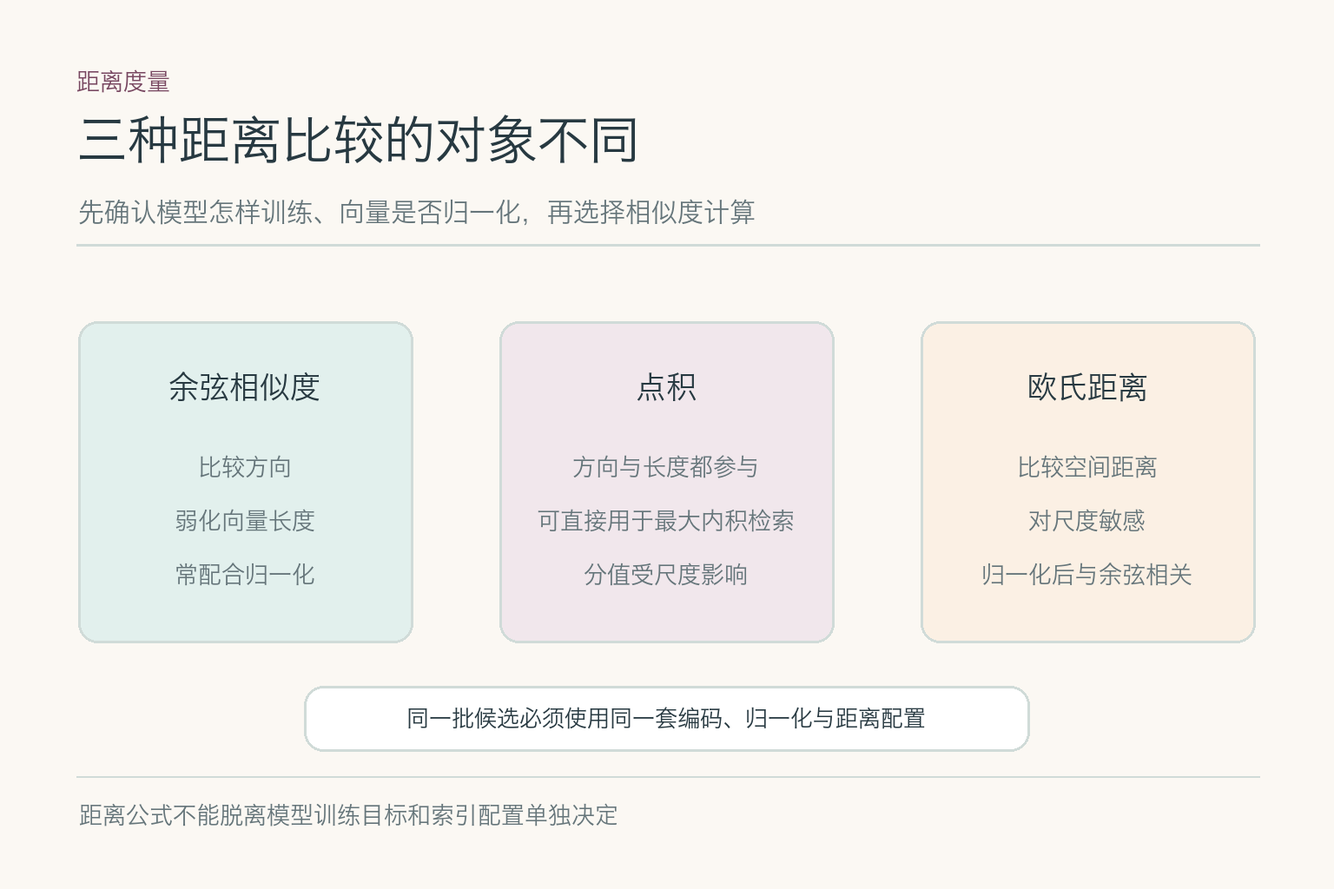
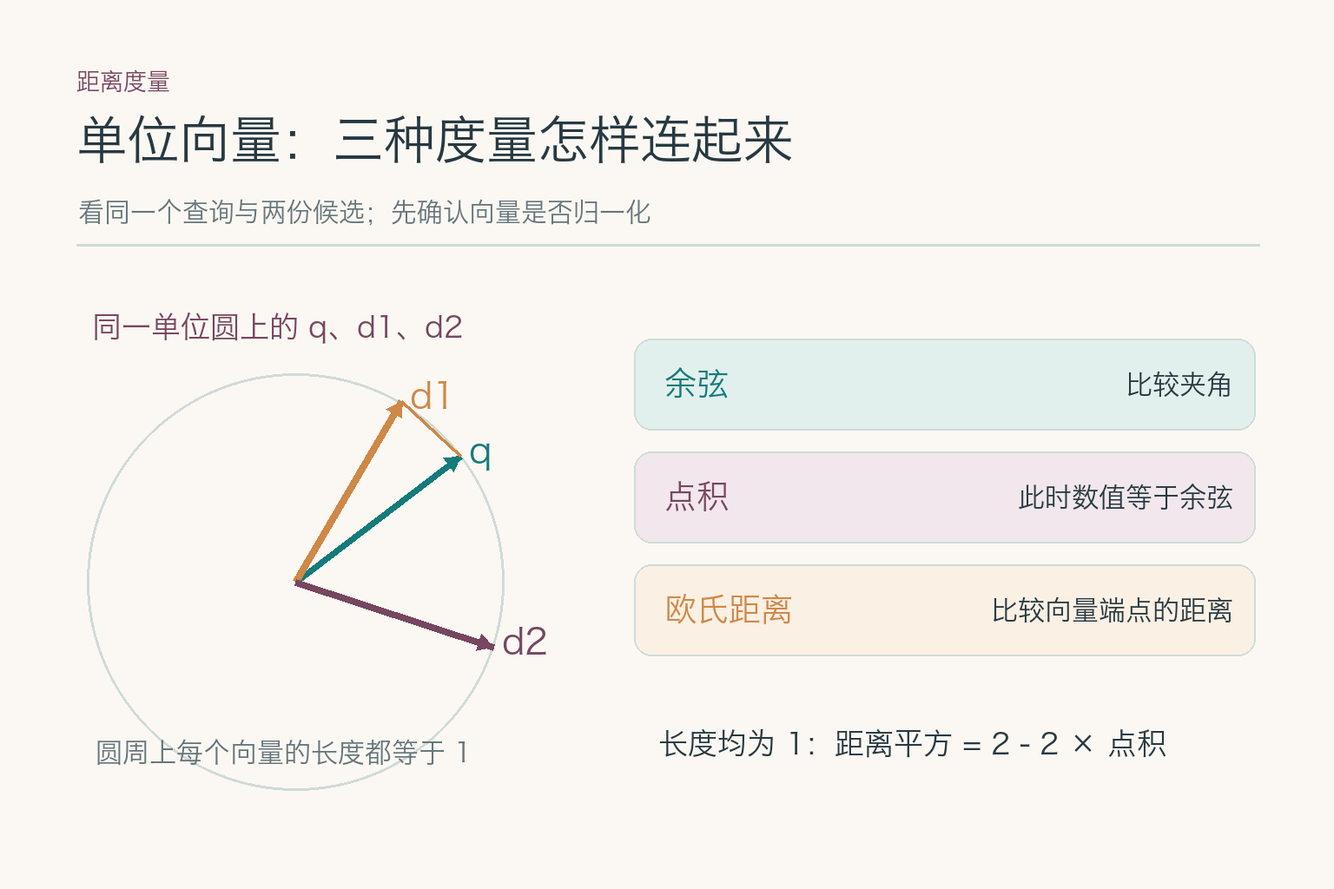
Refine embedding articles and diagrams

diff --git a/scripts/render-foundation-figure-fixes.py b/scripts/render-foundation-figure-fixes.py
@@ -6,6 +6,7 @@ future edit cannot silently reintroduce a misleading model relationship.
 
 from math import atan2, cos, sin
 from pathlib import Path
+import sys
 
 from PIL import Image, ImageDraw, ImageFont
 
@@ -65,8 +66,9 @@ def base(title, subtitle, category, footnote):
     label(d, (88, 131), title, 59)
     label(d, (90, 228), subtitle, 30, MUTED)
     d.line((88, 282, 1450, 282), fill=OUTLINE, width=3)
-    d.line((88, 894, 1450, 894), fill=OUTLINE, width=2)
-    label(d, (91, 925), footnote, 27, MUTED)
+    if footnote:
+        d.line((88, 894, 1450, 894), fill=OUTLINE, width=2)
+        label(d, (91, 925), footnote, 27, MUTED)
     return im, d
 
 
@@ -82,53 +84,57 @@ def save(im, relative):
 
 def embedding_chunking():
     im, d = base(
-        "切好的片段怎样进入向量索引",
-        "先保留条款条件，再编码；权限在查询时还要重新判断",
-        "建索引与查询",
-        "一个片段既要有向量，也要能回到原文和适用条件",
+        "版本条件也得跟着条款入库",
+        "只存“上限 500 元”，会丢掉地区、职级和生效日期",
+        "建索引",
+        "",
     )
-    steps = [
-        ((89, 384, 338, 534), "制度原文", "#FFFFFF"),
-        ((414, 384, 687, 534), "按条款切片", PLUM_PALE),
-        ((765, 384, 1026, 534), "嵌入模型", TEAL_PALE),
-        ((1100, 384, 1444, 534), "向量 + 片段 ID", ORANGE_PALE),
-    ]
-    for bounds, name, fill in steps:
-        box(d, bounds, name, fill)
-    for a, b in [((348, 459), (403, 459)), ((697, 459), (754, 459)),
-                 ((1036, 459), (1089, 459))]:
-        arrow(d, a, b, ORANGE)
-    box(d, (215, 674, 690, 795), "随片段保存：来源、版本、适用范围", "#FFFFFF", 27)
-    box(d, (840, 674, 1320, 795), "查询时：按身份与日期过滤", "#FFFFFF", 28)
-    arrow(d, (702, 735), (828, 735), TEAL)
+    d.rounded_rectangle((90, 365, 475, 670), radius=22, fill="#FFFFFF", outline=OUTLINE, width=3)
+    label(d, (122, 423), "制度原文", 37, PLUM)
+    label(d, (122, 485), "北京 · A 职级", 38)
+    label(d, (122, 545), "9 月 1 日起", 38)
+    label(d, (122, 605), "上限 500 元", 38)
+    d.rounded_rectangle((570, 400, 955, 635), radius=22, fill=TEAL_PALE, outline=OUTLINE, width=3)
+    label(d, (602, 468), "按条款切片", 39, TEAL)
+    label(d, (602, 536), "四项条件保留完整", 34)
+    d.rounded_rectangle((1050, 400, 1445, 635), radius=22, fill=ORANGE_PALE, outline=OUTLINE, width=3)
+    label(d, (1082, 468), "嵌入模型", 39, ORANGE)
+    label(d, (1082, 536), "向量 + 片段 ID", 34)
+    arrow(d, (486, 518), (559, 518), ORANGE)
+    arrow(d, (966, 518), (1039, 518), ORANGE)
+    d.rounded_rectangle((310, 730, 1230, 845), radius=22, fill="#FFFFFF", outline=OUTLINE, width=3)
+    label(d, (345, 790), "片段 ID 还能找到原文、版本和适用范围", 37, INK, "lm")
+    arrow(d, (1200, 640), (1200, 716), TEAL)
     save(im, "submodules/03-embedding/assets/embedding-chunking.png")
 
 
 def embedding_evaluation():
     im, d = base(
-        "召回结果怎样算对",
-        "模型先给候选；人工标注的相关资料只用于对照评测",
-        "召回评测",
-        "Recall@K：前 K 个结果覆盖了多少应找出的相关资料",
+        "旧版排第一，召回率仍可能是满分",
+        "同一道题：前三名里有新版，但旧版在它前面",
+        "案例评测",
+        "",
     )
-    for bounds, name, fill in [
-        ((90, 383, 336, 505), "测试问题", "#FFFFFF"),
-        ((430, 383, 728, 505), "嵌入检索", TEAL_PALE),
-        ((822, 383, 1100, 505), "前 K 个结果", "#FFFFFF"),
-        ((430, 643, 1100, 765), "人工标注的相关资料（标准答案）", PLUM_PALE),
-        ((1190, 500, 1445, 658), "比较集合\nRecall@K", ORANGE_PALE),
-    ]:
-        if "\n" in name:
-            d.rounded_rectangle(bounds, radius=22, fill=fill, outline=OUTLINE, width=3)
-            x0, y0, x1, y1 = bounds
-            label(d, ((x0+x1)//2, y0+54), "比较集合", 28, INK, "mm")
-            label(d, ((x0+x1)//2, y0+110), "Recall@K", 30, TEAL, "mm")
-        else:
-            box(d, bounds, name, fill, 29)
-    for a, b in [((347, 444), (419, 444)), ((739, 444), (811, 444)),
-                 ((1111, 444), (1179, 548)), ((1111, 704), (1179, 614))]:
-        arrow(d, a, b, ORANGE)
-    label(d, (484, 790), "标注资料不会“生成”召回结果", 28, PLUM)
+    d.rounded_rectangle((90, 340, 735, 475), radius=22, fill="#FFFFFF", outline=OUTLINE, width=3)
+    label(d, (122, 386), "测试问题", 31, PLUM)
+    label(d, (122, 438), "北京 · A 职级 · 2026 年 9 月 15 日", 31)
+    label(d, (90, 535), "检索前 3 名", 38, INK)
+    ranked = [
+        (570, "1  旧版 450 元", "日期不适用", PLUM_PALE, PLUM),
+        (690, "2  新版 500 元", "本题正例", TEAL_PALE, TEAL),
+        (810, "3  异地住宿条款", "地区不适用", ORANGE_PALE, ORANGE),
+    ]
+    for y, result, status, fill, color in ranked:
+        d.rounded_rectangle((90, y, 735, y+94), radius=18, fill=fill, outline=OUTLINE, width=2)
+        label(d, (120, y+47), result, 38, INK, "lm")
+        label(d, (705, y+47), status, 28, color, "rm")
+    d.rounded_rectangle((850, 370, 1445, 545), radius=24, fill="#FFFFFF", outline=OUTLINE, width=3)
+    label(d, (885, 420), "人工标注的正例", 31, PLUM)
+    label(d, (885, 492), "新版 500 元", 46, TEAL)
+    d.rounded_rectangle((850, 615, 1445, 850), radius=24, fill=ORANGE_PALE, outline=OUTLINE, width=3)
+    label(d, (885, 682), "Recall@3 = 1 / 1", 46, TEAL)
+    label(d, (885, 746), "正确条款进了前三名", 31, INK)
+    label(d, (885, 805), "但第一名仍是旧版", 31, PLUM)
     save(im, "submodules/03-embedding/assets/embedding-evaluation.png")
 
 
@@ -311,23 +317,32 @@ def multimodal_field_trace():
 
 def embedding_metric_comparison():
     im, d = base(
-        "三种距离比较的对象不同",
-        "先确认模型怎样训练、向量是否归一化，再选择相似度计算",
+        "单位向量：三种度量怎样连起来",
+        "看同一个查询与两份候选；先确认向量是否归一化",
         "距离度量",
-        "距离公式不能脱离模型训练目标和索引配置单独决定",
+        "",
     )
-    cards = [
-        ((90, 370, 475, 740), "余弦相似度", "比较方向\n弱化向量长度\n常配合归一化", TEAL_PALE),
-        ((575, 370, 960, 740), "点积", "方向与长度都参与\n可直接用于最大内积检索\n分值受尺度影响", PLUM_PALE),
-        ((1060, 370, 1445, 740), "欧氏距离", "比较空间距离\n对尺度敏感\n归一化后与余弦相关", ORANGE_PALE),
+    center = (340, 670)
+    radius = 240
+    d.ellipse((center[0]-radius, center[1]-radius, center[0]+radius, center[1]+radius),
+              outline=OUTLINE, width=3)
+    label(d, (106, 359), "同一单位圆上的 q、d1、d2", 34, PLUM)
+    endpoints = [((530, 525), "q", TEAL), ((462, 462), "d1", ORANGE), ((568, 745), "d2", PLUM)]
+    for endpoint, name, color in endpoints:
+        arrow(d, center, endpoint, color, 8)
+        label(d, (endpoint[0]+10, endpoint[1]-28), name, 41, color)
+    d.line((462, 462, 530, 525), fill=ORANGE, width=4)
+    label(d, (110, 850), "圆周上每个向量的长度都等于 1", 31, MUTED)
+    facts = [
+        (390, "余弦", "比较夹角", TEAL_PALE, TEAL),
+        (520, "点积", "此时数值等于余弦", PLUM_PALE, PLUM),
+        (650, "欧氏距离", "比较向量端点的距离", ORANGE_PALE, ORANGE),
     ]
-    for bounds, head, detail, fill in cards:
-        d.rounded_rectangle(bounds, radius=22, fill=fill, outline=OUTLINE, width=3)
-        x0, y0, x1, y1 = bounds
-        label(d, ((x0+x1)//2, y0+76), head, 35, INK, "mm")
-        for idx, line in enumerate(detail.split("\n")):
-            label(d, ((x0+x1)//2, y0+168+idx*62), line, 27, MUTED, "mm")
-    box(d, (350, 790, 1185, 865), "同一批候选必须使用同一套编码、归一化与距离配置", "#FFFFFF", 26)
+    for y, term, meaning, fill, color in facts:
+        d.rounded_rectangle((730, y, 1445, y+105), radius=20, fill=fill, outline=OUTLINE, width=2)
+        label(d, (765, y+52), term, 37, color, "lm")
+        label(d, (1420, y+52), meaning, 31, INK, "rm")
+    label(d, (758, 839), "长度均为 1：距离平方 = 2 - 2 × 点积", 34, INK)
     save(im, "submodules/03-embedding/assets/embedding-metric-comparison.png")
 
 
@@ -590,6 +605,7 @@ def multimodal_evaluation():
 def main():
     # LLM assets and the mobile-first multimodal assets are curated separately.
     # Keep old renderers for history; do not overwrite the 1000×1450 mobile figures.
+    selected = set(sys.argv[1:])
     for renderer in (
         embedding_chunking,
         embedding_evaluation,
@@ -601,7 +617,8 @@ def main():
         adaptation_distillation,
         adaptation_lora,
     ):
-        renderer()
+        if not selected or renderer.__name__ in selected:
+            renderer()
 
 
 if __name__ == "__main__":

diff --git a/content/wechat/01-foundation-models-and-inference/submodules/03-embedding/beginner-main.md b/content/wechat/01-foundation-models-and-inference/submodules/03-embedding/beginner-main.md
@@ -12,21 +12,21 @@ topic: "foundation"
 content_level: "submodule"
 submodule: "embedding"
 series_order: 3
-version: "0.3.0"
-stage: "围绕住宿条款案例重写表示、训练、检索与验证"
-git_state: "基于 fd09b1b（main；修改前工作区干净）"
-modified_at: "2026-10-09 16:03 CST"
+version: "0.4.0"
+stage: "精修查询条件、召回评测与配图衔接"
+git_state: "基于 ea8f4f5（main；修改前工作区干净）"
+modified_at: "2026-10-09 18:40 CST"
 ---
 
 # 大话向量嵌入：同一个意思为何找不到
 
 员工问：“北京出差住酒店，最多能报多少？”补充信息里写着：他是 A 职级，住宿日期为 2026 年 9 月 15 日。制度库中有一份《差旅住宿费限额》：旧版写 450 元，新版从 9 月 1 日起写 500 元。员工的票面金额是 480 元，但眼下只需要先找出可核对的制度条款，不作报销审批。**这些日期和金额是教学设定，不代表真实公司的制度。**
 
-按字面找，“住酒店最多报多少”与“差旅住宿费限额”对不上；按意思找，450 元的旧版又可能排得很靠前。向量嵌入正好处在这道缝里：它让不同说法有机会相遇，同时也会把主题相似、条件不同的资料带进候选。我们沿着这次查询，看它算出了什么，哪里会丢信息，怎样知道错误发生在哪一步。
+按字面找，“住酒店最多报多少”与“差旅住宿费限额”对不上；按意思找，450 元的旧版又可能排得很靠前。向量嵌入能帮助系统找到用词不同的条款，但找到“住宿费”不等于找到了 9 月 15 日适用的版本。我们沿着这次查询，看它怎样计算、会漏掉哪些条件，以及怎样定位错误。
 
 ## 一、从一句问话到一串数字，模型保留了什么
 
-嵌入模型（`embedding model`）接收文字，输出固定长度的向量。可以把向量想成一张由许多数字组成的“位置记录”，方便计算两段文字在模型空间里有多近；它不是把原句逐字压进一排格子。输入先按该模型的规则拆成 `token`（模型处理文字的片段），再经过编码网络，汇总成整个输入的表示。不同模型的汇总办法并不相同，不能把某一种实现当成通则。
+嵌入模型（`embedding model`）接收文字，输出固定长度的向量，也就是一组用于计算的数字。可以把它想成模型给这段文字标出的坐标：两段话能据此比较远近，却不能从某个数字直接还原原句。输入先按模型的规则拆成 `token`（模型处理文字的片段），经过编码网络后，再汇总成整段文字的表示。不同模型的汇总办法并不相同。
 
 ![向量空间中的语义簇](./assets/embedding-space.png)
 
@@ -38,7 +38,9 @@ modified_at: "2026-10-09 16:03 CST"
 
 训练时可以给模型一组相关的问句与资料，再给不相关的资料。模型调整参数，让相关配对得分高，不相关配对得分低。以这道题为例，“酒店最多报多少”与“住宿费限额”是一组应靠近的表达；“打印机维修流程”很容易排开。原始研究中，Sentence-BERT 用成对或三元组训练，让句子向量适合直接比较；E5 等检索模型进一步使用大规模文本对和对比训练。它们说明的是训练思路，不保证已经学会这家公司的新旧制度。
 
-真正考验模型的是旧版 450 元。它和新版 500 元的标题、城市、职级可能完全相同，只差生效时间与金额。若训练样本只教模型分开“住宿”和“打印机”，就算相似度计算毫无差错，它也可能把旧版排在前面。这样的相似但不适用的资料叫难负样本。把旧版、异地、不同职级的条款加入训练或评测，能看到模型是否注意到细小条件；但标注前必须确认它们确实不适用，不能把另一日期下的正确条款误标成错误。
+真正考验模型的是旧版 450 元。它和新版 500 元的标题、城市、职级可能完全相同，只差生效时间与金额。这里得先检查查询输入：如果编码器只收到“住酒店最多报多少”，9 月 15 日仍留在业务表单里，它根本不知道该排除旧版。系统可以把已确认的住宿日期写入查询，或在检索时按生效区间过滤；不能指望模型从没见过的字段里猜答案。
+
+条件已经送到检索环节，旧版仍排在前面，才需要继续检查训练。若样本只教模型分开“住宿”和“打印机”，它可能忽略新旧版之间细小却关键的差异。当前查询下相似但不适用的旧版，是一个难负样本；换成 8 月的住宿日期，旧版又可能成为正例。训练和评测前要按日期、地区、职级核对标签，不能把“旧版”永久标成错误。
 
 还有一种很普通的失败：训练集中正式标题很多，员工的口语问法很少。模型懂“差旅住宿费”，未必懂“住酒店最多报多少”。这时先收集真实问法和对应条款，再比较模型，而不是看到一次没搜到就断言“向量不懂中文”。
 
@@ -46,9 +48,9 @@ modified_at: "2026-10-09 16:03 CST"
 
 ![双塔编码的原理](./assets/embedding-principle.png)
 
-*依据 [Sentence-BERT 原论文 Figure 2](https://arxiv.org/html/1908.10084) 的推理比较结构改绘；图中“查询编码器”和“文档编码器”是两条处理路径，不表示所有模型都使用两套不同参数。*
+*依据 [Sentence-BERT 原论文 Figure 2](https://arxiv.org/html/1908.10084) 的推理比较结构改绘。两条路径共用编码器参数；其他双塔模型未必如此。*
 
-常见的双塔检索把问句与制度片段分别编码，得到查询向量 `q` 和文档向量 `d`，再比较两者。Sentence-BERT 的孪生结构共享编码器参数；DPR 则为问题和段落使用分别训练的编码器。两者实现不同，却都允许先计算并保存文档向量。员工发问时，只需为新问句算一次向量，再从已存的文档向量里找候选。
+常见的双塔检索把问句与制度片段分别编码，得到查询向量 `q` 和文档向量 `d`，再比较两者。图按 Sentence-BERT 的孪生结构绘制：两条路径共用编码器参数，并非两套各自训练的模型。DPR 则为问题和段落使用分别训练的编码器。实现不同，但都可以提前计算并保存文档向量；员工发问时，再计算查询向量并寻找候选。
 
 ![查询与制度片段进入向量检索](./assets/embedding-retrieval.png)
 
@@ -66,7 +68,7 @@ modified_at: "2026-10-09 16:03 CST"
 
 ![制度条款怎样进入向量索引](./assets/embedding-chunking.png)
 
-*片段与原文、版本和适用条件保持关联。图片展示一种建索引方法，不表示每家公司都要采用同样的切分长度。*
+*示意条款保留北京、A 职级、9 月 1 日起和 500 元；片段 ID 仍能找到原文、版本与适用范围。*
 
 假如把整本差旅制度编码成一个向量，住宿、交通、餐补会混在一起；模型输入还可能超过长度上限而被截断。另一个极端是只存“上限 500 元”：数字留下了，北京、A 职级和生效日期却不见了。此时模型即使找回这四个字，也没法凭片段解释员工为什么适用。
 
@@ -96,13 +98,13 @@ modified_at: "2026-10-09 16:03 CST"
 
 ![召回结果与人工标注资料的对照评测](./assets/embedding-evaluation.png)
 
-*人工标注的相关条款是独立答案，不能由当前检索结果反过来充当标准答案。*
+*图中排名是教学示意：旧版排第一、新版排第二，人工标注只把当前日期适用的新版列为正例。*
 
-先为一组问题标出可接受的制度片段。这里至少要有口语问法、正式标题问法、旧版与新版、不同职级、精确编号、缺少日期几类。对 9 月 15 日这道题，若新版应当进入前五个候选，就检查 `Recall@5`；旧版也可能被召回，另记“把不适用条款排在前面”的次数。**召回率告诉我们正确材料有没有进门，不告诉我们最终回答是否引用了正确版本。**
+先为一组问题标出可接受的制度片段。这里至少要有口语问法、正式标题问法、旧版与新版、不同职级、精确编号、缺少日期几类。图里只有新版一份正例，它排在前三名里，所以 `Recall@3 = 1/1`。但旧版排在它前面；只看召回率会误以为没有问题，还得另看正确条款的名次和错误旧版的前排比例。**召回率只回答“该找的材料进候选了吗”，不回答“排第一的是不是有效版本”。**
 
 有多份资料共同构成答案时，不能把其中一份进了前五就算全部找齐；反过来，日期缺失的题也不能硬标一份唯一正解。先写清每道题的相关性标准，再计算指标，团队之间的分数才有可比性。MTEB 等公开基准有助于初筛模型，但企业制度的版本和职级难题仍须自己标注。
 
-评测时再把失败拆开：新版未入库；片段缺失生效日期；编码器把口语问法拉远；精确搜索有结果但近似索引漏了；正确候选在场却被后续环节选错。每一种都有不同修法。员工最终拿到的应是能追溯到原文与版本的候选条款；是否可报销，还要结合票据、身份与业务规则判断。向量模型的工作到这里就已经很有价值，不必让它替整套财务流程签字。
+评测时再把失败拆开：新版未入库；片段缺失生效日期；编码器把口语问法拉远；精确搜索有结果但近似索引漏了；正确候选在场却被后续环节选错。每一种都有不同修法。员工最终拿到的应是能追溯到原文与版本的候选条款；是否可报销，还要结合票据、身份与业务规则另行判断。
 
 ## 参考资料
 

diff --git a/content/wechat/01-foundation-models-and-inference/submodules/03-embedding/prompts.md b/content/wechat/01-foundation-models-and-inference/submodules/03-embedding/prompts.md
@@ -1,20 +1,20 @@
 # 向量嵌入子模块配图提示词
 
-版本：0.4.0；修订时间：2026-10-09 16:03 CST；依据提交：`fd09b1b`（`main`；修订前工作区干净）。
+版本：0.5.0；修订时间：2026-10-09 18:40 CST；依据提交：`ea8f4f5`（`main`；修订前工作区干净）。
 
-正文配图统一为 1536×1024 PNG；公众号封面图统一为 900×383 PNG。暖白背景，青绿、蓝色和橙色点缀，中文清晰，无水印、无 Logo。封面图使用内置图像生成工具；结构图 `embedding-chunking.png`、`embedding-evaluation.png` 与 `embedding-metric-comparison.png` 由 `scripts/render-foundation-figure-fixes.py` 确定性绘制。
+正文配图统一为 1536×1024 PNG；公众号封面图统一为 900×383 PNG。暖白背景，青绿、蓝色和橙色点缀，中文清晰，无水印、无 Logo。主封面是已有生成图；副封面和部分原理、诊断图保留可维护的 SVG／绘图脚本，成片仍为 PNG。`embedding-principle.png` 由 `scripts/render-principle-diagrams.mjs` 绘制；`embedding-chunking.png`、`embedding-evaluation.png` 与 `embedding-metric-comparison.png` 由 `scripts/render-foundation-figure-fixes.py` 确定性绘制。论文出处与教学示意边界放在图注，不放图底白条。
 
-1. `embedding-cover-main-wechat.png`：主文封面图。标题“大话向量嵌入”“同一个意思为何找不到”；将口语提问和正式制度标题画成向量空间中的两点，并保留“年份、地区、职级”条件卡。
+1. `embedding-cover-main-wechat.png`：主文封面图。标题“大话向量嵌入”“同一个意思为何找不到”；将“酒店最多报多少”和“差旅住宿费限额”放在向量空间两侧，说明不同说法需要语义连接。日期、地区、职级的适用性留到正文讲解，不在封面伪装成相似度已解决的问题。
 2. `embedding-cover-interview-wechat.png`：面试副文封面图。中央放大镜里只保留旧版与现行版两张条款卡、450 与 500 两个示意金额，以及叉号与勾号；不重复完整文章标题。关键内容落在中央正方形缩略图安全区。源图：`scripts/figures/embedding/embedding-cover-interview-wechat.svg`。
 3. `embedding-space.png`：二维语义地图，标签“差旅报销”“住宿标准”“产品故障”“账号登录”，相近主题成簇。
 4. `embedding-retrieval.png`：双塔检索，标签“查询向量”“文档向量”“近邻搜索”“候选资料”。
-5. `embedding-chunking.png`：制度原文按条款切片后明确经过嵌入模型，形成“向量 + 片段 ID”并建立索引；来源、版本和适用范围随片段保存，查询时再按身份、日期过滤。不能漏掉嵌入模型，也不能把权限过滤画成一次入库操作。
-6. `embedding-evaluation.png`：测试问题进入嵌入检索得前 K 个结果；人工标注的相关资料是独立标准答案，两者对照计算 Recall@K。不得画成“相关资料生成召回结果”。
-7. `embedding-metric-comparison.png`：度量对比图。分别用方向、投影与几何间距解释余弦、点积和欧氏距离，并标注“归一化后余弦与点积排序可能等价”“分数不是正确率”。
-8. `embedding-principle.png`：原理图。依据 [Sentence-BERT](https://arxiv.org/abs/1908.10084) Figure 2（推理阶段）改绘，不能错标为 Figure 1（分类训练结构）。保留查询与文档两条独立编码路径、向量 `q/d` 和相似度计算；强调文档向量可预计算，相似度不是事实证明。图注：“依据 Reimers 与 Gurevych，Figure 2 改绘。”
+5. `embedding-chunking.png`：示意制度原文完整保留“北京、A 职级、9 月 1 日起、上限 500 元”，按条款切片后经过嵌入模型，形成“向量 + 片段 ID”；片段 ID 仍能回到原文、版本和适用范围。图中不把查询过滤画成建索引时已经完成的动作。文末不加空泛总结白条。
+6. `embedding-evaluation.png`：教学示意“旧版 450 元排第 1，新版 500 元排第 2，异地条款排第 3”；按 2026 年 9 月 15 日、北京、A 职级独立标注新版为唯一正例，因此 `Recall@3 = 1/1`，但旧版仍排在前面。排名不是实测，图注须写明。图形展示召回覆盖与排序质量不同，不能把标注画成检索结果的来源。
+7. `embedding-metric-comparison.png`：在同一单位圆上绘制查询向量 `q` 和候选 `d1/d2`，画出方向与端点距离；图中只在单位向量条件下给出点积等于余弦、距离平方等于 `2 - 2 × 点积` 的关系，不把这组等价推广到未归一化向量。文字只留读图所需的短标签，无独立免责声明。
+8. `embedding-principle.png`：原理图。依据 [Sentence-BERT](https://arxiv.org/html/1908.10084) Figure 2（推理阶段）改绘，不能错标为 Figure 1（分类训练结构）。保留查询与文档两条编码路径、共享参数、向量 `q/d`、相似度计算，以及文档向量可预计算。图内不放论文出处或“相似度不是事实证明”等图底总结；出处和边界在紧邻图注及正文说明。
 
 9. `embedding-pooling.png`：面试题 1 的句向量汇总图。依据 [Sentence-BERT 第 3 节](https://arxiv.org/html/1908.10084) 说明输入位置经过编码后，可选择特殊位置或平均汇总得到固定长度表示；两条路径是备选，不画成先后两步。源图：`scripts/figures/embedding/embedding-pooling.png.svg`。
 10. `embedding-encoder-variants.png`：面试题 3 的架构比较图。依据 [Sentence-BERT](https://arxiv.org/html/1908.10084)、[DPR](https://arxiv.org/html/2004.04906) 与 [E5](https://arxiv.org/html/2212.03533) 的编码约定，分别画共享参数、独立参数、共享参数加查询／段落前缀。只比较结构，不暗示效果排名。源图：`scripts/figures/embedding/embedding-encoder-variants.png.svg`。
 11. `embedding-fragment-loss.png`：面试题 6 的输入诊断图。同一示意条款“北京、A 职级、9 月 1 日起、500 元”，并排展示截断丢金额、片段过短丢适用条件、保留完整条件三种送入模型的文字。图中数字是教学设定，不是制度实测。源图：`scripts/figures/embedding/embedding-fragment-loss.png.svg`。
 
-本轮复核：新四张图已检查中文、金额、箭头和底部无独立免责声明；副文专属图解释汇总方式、编码约定和输入丢失，与主文只共用召回评测图。仍需在公众号真实卡片和手机端复核封面裁切与正文缩图。
+本轮复核：已检查改绘图的中文、金额、箭头、共享参数、单位向量条件和底部无独立免责声明；副文专属图解释汇总方式、编码约定、距离度量和输入丢失，与主文只共用召回评测图。仍需在公众号真实卡片和手机端复核封面裁切与正文缩图。

diff --git a/content/wechat/01-foundation-models-and-inference/submodules/03-embedding/interview-side.md b/content/wechat/01-foundation-models-and-inference/submodules/03-embedding/interview-side.md
@@ -12,10 +12,10 @@ topic: "foundation"
 content_level: "submodule"
 submodule: "embedding"
 series_order: 3
-version: "0.3.0"
-stage: "围绕同一制度案例重写嵌入模型专项面试题"
-git_state: "基于 fd09b1b（main；修改前工作区干净）"
-modified_at: "2026-10-09 16:03 CST"
+version: "0.4.0"
+stage: "补强查询条件与召回指标的答题边界"
+git_state: "基于 ea8f4f5（main；修改前工作区干净）"
+modified_at: "2026-10-09 18:40 CST"
 ---
 
 # 面试题：向量相似为何找错住宿条款
@@ -54,12 +54,12 @@ modified_at: "2026-10-09 16:03 CST"
 
 对比训练给定查询 `q`、相关条款 `p+` 和若干不相关条款 `p-`，使 `q` 与 `p+` 的得分相对更高。旧版与新版几乎同题，能迫使模型学习“生效日期”这样的区别，比拿打印机手册当负样本更有挑战。但**旧版不是永远的负样本**：若住宿日期在新版生效前，它可能正是正确证据。DPR 和 E5 的研究都讨论了负样本的选取；困难反例有用的前提，是相关性标签本身可信。
 
-题库中应把查询日期写清，把两版制度的生效区间写清。若一条查询缺住宿日期，不能机械把旧版标成错，再用这份标签训练模型。还要防止从当前模型的前排结果直接挖“负样本”：它们可能只是未被标注的另一份正确材料。
+题库中应把查询日期写清，把两版制度的生效区间写清，还要确认日期真的进入了编码输入或过滤条件。如果业务表单有日期、模型输入却只有“住酒店最多报多少”，旧版排前不能全怪训练。若员工本来就没提供日期，也不能机械把旧版标成错，再用这份标签训练模型。还要防止从当前模型的前排结果直接挖“负样本”：它们可能只是未被标注的另一份正确材料。
 
 ### 答题点
 
 1. 先定义当前查询下的正例与负例，再谈难度；
-2. 用同主题的旧版、异地、不同职级条款作候选难例；
+2. 核对日期等条件是否进入编码输入或过滤逻辑，再用同主题的旧版、异地、不同职级条款作候选难例；
 3. 人工核对时间与适用范围，避免假负样本；
 4. 用独立难例集看训练后是否真的改善。
 
@@ -104,7 +104,7 @@ modified_at: "2026-10-09 16:03 CST"
 
 ![余弦、点积与欧氏距离的比较](./assets/embedding-metric-comparison.png)
 
-*图中是几何含义比较，不表示任一度量天然更适合所有嵌入模型。*
+*单位圆上的三条向量长度相同，因此点积等于余弦相似度，距离平方可由点积换算；未归一化时不能照搬这个结论。*
 
 ### 答题点
 
@@ -218,11 +218,11 @@ modified_at: "2026-10-09 16:03 CST"
 
 ### 原理
 
-先定义“相关”是什么。若问题明确为 2026 年 9 月 15 日、北京、A 职级，教学设定里新版是适用条款；旧版虽谈同一主题，却不能作为这道题的正例。对单正例问题，`Recall@K` 可看新版是否落在前 `K`；有多份必要证据时，要按全部正例的覆盖比例计算。还应看首个正例排第几，以及旧版排在新版前面的比例。指标口径变了，数字也会变，不能把“找到住宿主题”算成找到适用制度。
+先定义“相关”是什么。若问题明确为 2026 年 9 月 15 日、北京、A 职级，教学设定里新版是适用条款；旧版虽谈同一主题，却不能作为这道题的正例。`Recall@K` 是“前 K 个候选中找回的正例数 ÷ 全部正例数”。图中的前三名有新版，且只标了这一份正例，所以 `Recall@3 = 1/1`。不过旧版仍排第一，召回率满分也不能说明排序正确；还应看首个正例排第几、旧版压过新版的比例。有多份必要证据时，分母要包括全部正例，不能找到其中一份就算全找齐。
 
 ![召回结果与人工标注资料的对照评测](./assets/embedding-evaluation.png)
 
-*标准答案来自独立标注；不能先看模型返回了什么，再把返回结果都标成相关。*
+*图中排名和金额均为教学示意；正例按住宿日期独立标注，不由检索结果倒推。*
 
 ### 答题点
 
